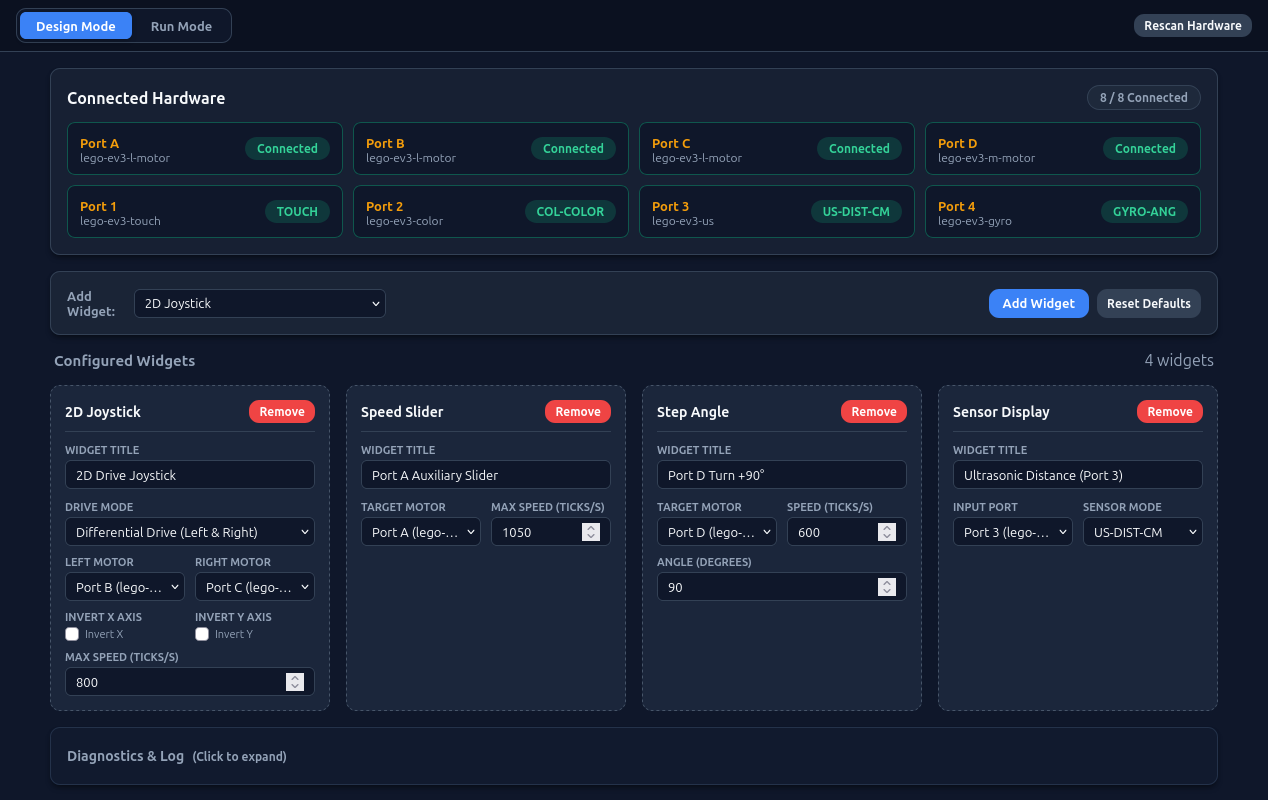
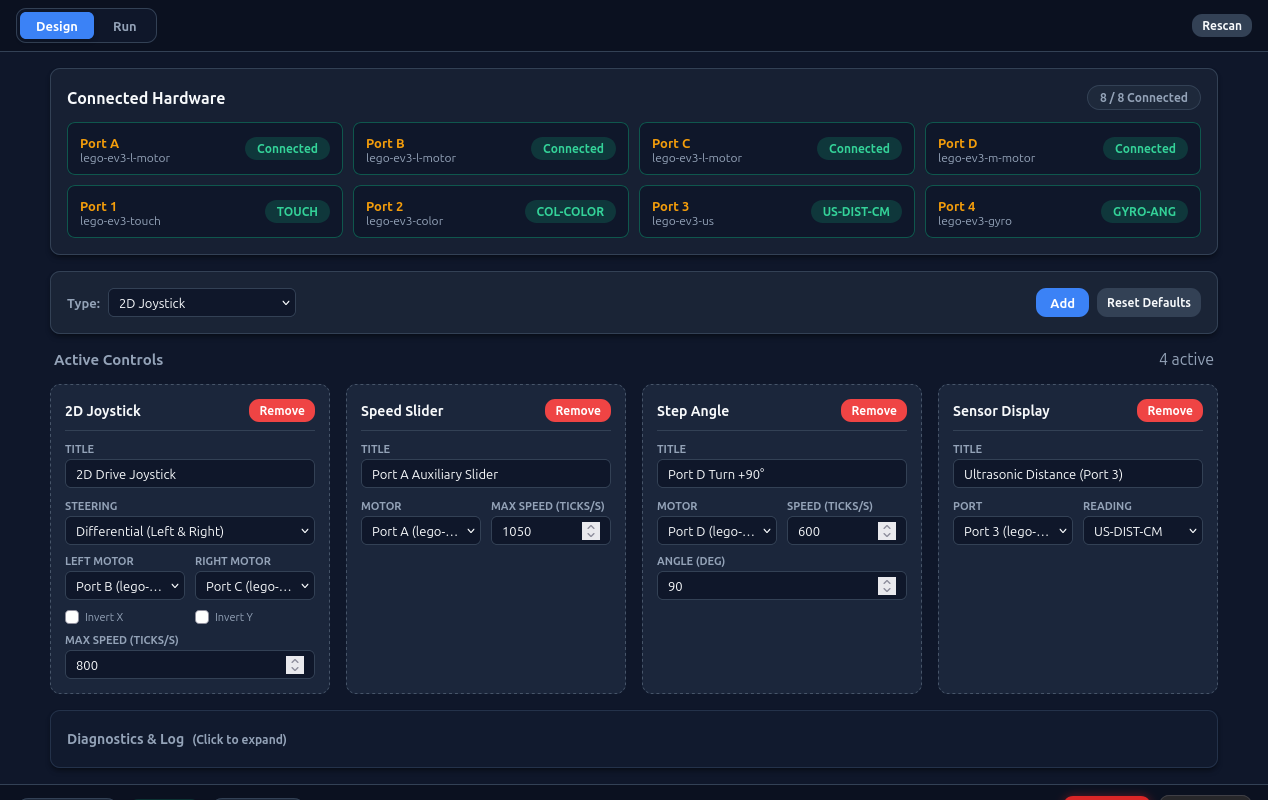
refactor(ui): remove word 'Mode' and eliminate redundant labels

diff --git a/web_assets/app.js b/web_assets/app.js
@@ -418,13 +418,13 @@ class EV3App {
     renderDesignWidgets() {
         if (!this.designWidgetList) return;
         if (this.widgetCountLabel) {
-            this.widgetCountLabel.textContent = `${this.widgets.length} widget${this.widgets.length === 1 ? '' : 's'}`;
+            this.widgetCountLabel.textContent = `${this.widgets.length} active`;
         }
 
         if (this.widgets.length === 0) {
             this.designWidgetList.innerHTML = `
                 <div class="card empty-notice" style="grid-column: 1 / -1;">
-                    <p>No widgets added yet. Select a widget type above and click <strong>Add Widget</strong>.</p>
+                    <p>No controls configured yet. Select a type above and click <strong>Add</strong>.</p>
                 </div>
             `;
             return;
@@ -455,10 +455,10 @@ class EV3App {
         if (w.type === "joystick") {
             fieldsHtml = `
                 <div class="widget-config-field full-width">
-                    <label>Drive Mode</label>
+                    <label>Steering</label>
                     <select class="field-drive-mode" data-id="${w.id}">
-                        <option value="differential" ${w.driveMode === 'differential' ? 'selected' : ''}>Differential Drive (Left & Right)</option>
-                        <option value="independent" ${w.driveMode === 'independent' ? 'selected' : ''}>Independent Axes (X & Y)</option>
+                        <option value="differential" ${w.driveMode === 'differential' ? 'selected' : ''}>Differential (Left & Right)</option>
+                        <option value="independent" ${w.driveMode === 'independent' ? 'selected' : ''}>Independent (X & Y)</option>
                     </select>
                 </div>
                 ${w.driveMode === 'differential' ? `
@@ -472,22 +472,20 @@ class EV3App {
                     </div>
                 ` : `
                     <div class="widget-config-field">
-                        <label>X Axis Motor</label>
+                        <label>X Motor</label>
                         <select class="port-select field-x-port" data-id="${w.id}" data-allow-none="true">${portOptions(w.xPort, true)}</select>
                     </div>
                     <div class="widget-config-field">
-                        <label>Y Axis Motor</label>
+                        <label>Y Motor</label>
                         <select class="port-select field-y-port" data-id="${w.id}" data-allow-none="true">${portOptions(w.yPort, true)}</select>
                     </div>
                 `}
                 <div class="widget-config-field">
-                    <label>Invert X Axis</label>
                     <label style="text-transform:none; font-weight:normal; display:flex; align-items:center; gap:6px;">
                         <input type="checkbox" class="field-invert-x" data-id="${w.id}" ${w.invertX ? 'checked' : ''}> Invert X
                     </label>
                 </div>
                 <div class="widget-config-field">
-                    <label>Invert Y Axis</label>
                     <label style="text-transform:none; font-weight:normal; display:flex; align-items:center; gap:6px;">
                         <input type="checkbox" class="field-invert-y" data-id="${w.id}" ${w.invertY ? 'checked' : ''}> Invert Y
                     </label>
@@ -500,7 +498,7 @@ class EV3App {
         } else if (w.type === "slider") {
             fieldsHtml = `
                 <div class="widget-config-field">
-                    <label>Target Motor</label>
+                    <label>Motor</label>
                     <select class="port-select field-port" data-id="${w.id}">${portOptions(w.port)}</select>
                 </div>
                 <div class="widget-config-field">
@@ -511,7 +509,7 @@ class EV3App {
         } else if (w.type === "momentary" || w.type === "toggle") {
             fieldsHtml = `
                 <div class="widget-config-field">
-                    <label>Target Motor</label>
+                    <label>Motor</label>
                     <select class="port-select field-port" data-id="${w.id}">${portOptions(w.port)}</select>
                 </div>
                 <div class="widget-config-field">
@@ -522,7 +520,7 @@ class EV3App {
         } else if (w.type === "timed") {
             fieldsHtml = `
                 <div class="widget-config-field">
-                    <label>Target Motor</label>
+                    <label>Motor</label>
                     <select class="port-select field-port" data-id="${w.id}">${portOptions(w.port)}</select>
                 </div>
                 <div class="widget-config-field">
@@ -530,14 +528,14 @@ class EV3App {
                     <input type="number" class="field-speed" data-id="${w.id}" min="-1560" max="1560" step="50" value="${w.speed}">
                 </div>
                 <div class="widget-config-field full-width">
-                    <label>Duration (Seconds)</label>
+                    <label>Duration (s)</label>
                     <input type="number" class="field-seconds" data-id="${w.id}" min="0.1" max="60" step="0.1" value="${w.seconds}">
                 </div>
             `;
         } else if (w.type === "step") {
             fieldsHtml = `
                 <div class="widget-config-field">
-                    <label>Target Motor</label>
+                    <label>Motor</label>
                     <select class="port-select field-port" data-id="${w.id}">${portOptions(w.port)}</select>
                 </div>
                 <div class="widget-config-field">
@@ -545,7 +543,7 @@ class EV3App {
                     <input type="number" class="field-speed" data-id="${w.id}" min="50" max="1560" step="50" value="${w.speed}">
                 </div>
                 <div class="widget-config-field full-width">
-                    <label>Angle (Degrees)</label>
+                    <label>Angle (deg)</label>
                     <input type="number" class="field-degrees" data-id="${w.id}" min="-3600" max="3600" step="45" value="${w.degrees}">
                 </div>
             `;
@@ -572,11 +570,11 @@ class EV3App {
 
             fieldsHtml = `
                 <div class="widget-config-field">
-                    <label>Input Port</label>
+                    <label>Port</label>
                     <select class="field-sensor-port" data-id="${w.id}">${sensorPortOptions(w.port || "1")}</select>
                 </div>
                 <div class="widget-config-field">
-                    <label>Sensor Mode</label>
+                    <label>Reading</label>
                     <select class="field-sensor-mode" data-id="${w.id}">${modeOpts}</select>
                 </div>
             `;
@@ -585,8 +583,8 @@ class EV3App {
         const typeLabels = {
             joystick: "2D Joystick",
             slider: "Speed Slider",
-            momentary: "Momentary Button",
-            toggle: "Toggle Button",
+            momentary: "Momentary",
+            toggle: "Toggle",
             timed: "Timed Move",
             step: "Step Angle",
             sensor: "Sensor Display"
@@ -604,7 +602,7 @@ class EV3App {
                 </div>
 
                 <div class="widget-config-field full-width">
-                    <label>Widget Title</label>
+                    <label>Title</label>
                     <input type="text" class="field-title" data-id="${w.id}" value="${w.title}">
                 </div>
 
@@ -651,7 +649,7 @@ class EV3App {
             });
         });
 
-        // Sensor mode change
+        // Sensor reading change
         document.querySelectorAll(".field-sensor-mode").forEach(sel => {
             sel.addEventListener("change", async (e) => {
                 const mode = e.target.value;
@@ -661,9 +659,9 @@ class EV3App {
                     this.saveWidgets();
                     try {
                         await this.apiPort(widget.port, { mode });
-                        this.log(`Sensor port ${widget.port} mode changed to ${mode}`, "info");
+                        this.log(`Sensor port ${widget.port} set to ${mode}`, "info");
                     } catch (err) {
-                        this.log(`Mode change failed: ${err.message}`, "error");
+                        this.log(`Sensor update failed: ${err.message}`, "error");
                     }
                 }
             });
@@ -781,7 +779,7 @@ class EV3App {
                         <span id="sensor-num-${w.id}">${val}</span> <span style="font-size: 1.1rem; color: #64748b;" id="sensor-unit-${w.id}">${units}</span>
                     </div>
                     <div style="font-size: 0.95rem; color: #475569; margin-top: 8px;">
-                        Mode: <strong id="sensor-mode-${w.id}">${mode}</strong>
+                        <strong id="sensor-mode-${w.id}">${mode}</strong>
                     </div>
                 </div>
             `;
@@ -802,7 +800,7 @@ class EV3App {
                 </div>
                 ${contentHtml}
                 <div class="run-card-status" id="run-status-${w.id}">
-                    Status: Ready
+                    Ready
                 </div>
             </div>
         `;
@@ -1233,7 +1231,7 @@ class EV3App {
                     if (modeElem) modeElem.textContent = s.connected ? s.mode : "--";
                     statusElem.textContent = s.connected
                         ? `Driver: ${s.driver_name}`
-                        : `Sensor disconnected`;
+                        : `Disconnected`;
                 }
             } else if (w.type === "joystick") {
                 if (w.driveMode === "differential") {

diff --git a/web_assets/design.html b/web_assets/design.html
@@ -3,18 +3,18 @@
 <head>
     <meta charset="UTF-8">
     <meta name="viewport" content="width=device-width, initial-scale=1.0, maximum-scale=1.0, user-scalable=no">
-    <title>EV3 Mindstorms - Design Mode</title>
+    <title>EV3 Mindstorms - Design</title>
     <link rel="stylesheet" href="style.css">
 </head>
 <body>
     <!-- Top Tab Navigation -->
     <nav class="top-nav">
         <div class="tab-group">
-            <a href="/design" id="btn-mode-design" class="tab-btn active">Design Mode</a>
-            <a href="/run" id="btn-mode-run" class="tab-btn">Run Mode</a>
+            <a href="/design" id="btn-mode-design" class="tab-btn active">Design</a>
+            <a href="/run" id="btn-mode-run" class="tab-btn">Run</a>
         </div>
         <button id="btn-rescan" class="btn btn-secondary btn-sm" title="Scan for connected hardware on all ports">
-            Rescan Hardware
+            Rescan
         </button>
     </nav>
 
@@ -36,20 +36,20 @@
             <div class="card builder-toolbar-card">
                 <div class="builder-toolbar">
                     <div class="builder-select-group">
-                        <label for="widget-type-select">Add Widget:</label>
+                        <label for="widget-type-select">Type:</label>
                         <select id="widget-type-select">
                             <option value="joystick">2D Joystick</option>
                             <option value="slider">Speed Slider</option>
-                            <option value="momentary">Momentary Button (Press to Run)</option>
-                            <option value="toggle">Toggle Button (Run / Stop)</option>
-                            <option value="timed">Timed Move Button</option>
-                            <option value="step">Step Angle Button</option>
+                            <option value="momentary">Momentary (Hold to Run)</option>
+                            <option value="toggle">Toggle (Run / Stop)</option>
+                            <option value="timed">Timed Move</option>
+                            <option value="step">Step Angle</option>
                             <option value="sensor">Sensor Display</option>
                         </select>
                     </div>
                     <div class="builder-buttons">
                         <button id="btn-add-widget" class="btn btn-primary">
-                            Add Widget
+                            Add
                         </button>
                         <button id="btn-reset-layout" class="btn btn-secondary btn-sm" title="Restore default starter widgets">
                             Reset Defaults
@@ -60,8 +60,8 @@
 
             <!-- Design Widget Card List -->
             <div class="widget-list-header">
-                <h3>Configured Widgets</h3>
-                <span class="text-muted" id="widget-count-label">0 widgets</span>
+                <h3>Active Controls</h3>
+                <span class="text-muted" id="widget-count-label">0 active</span>
             </div>
             <div id="design-widget-list" class="design-widget-list">
                 <!-- Dynamically populated widget config cards -->
@@ -98,10 +98,10 @@
                     <div class="log-container">
                         <div class="log-header">
                             <span>Command &amp; Event Log</span>
-                            <button id="btn-clear-log" class="btn btn-sm btn-secondary">Clear Log</button>
+                            <button id="btn-clear-log" class="btn btn-sm btn-secondary">Clear</button>
                         </div>
                         <div id="log-box" class="log-box">
-                            <div class="log-entry log-info">[System] Design Mode initialized.</div>
+                            <div class="log-entry log-info">[System] Design initialized.</div>
                         </div>
                     </div>
                 </div>

diff --git a/web_assets/index.html b/web_assets/index.html
@@ -3,15 +3,15 @@
 <head>
     <meta charset="UTF-8">
     <meta name="viewport" content="width=device-width, initial-scale=1.0, maximum-scale=1.0, user-scalable=no">
-    <title>EV3 Mindstorms - Run Mode</title>
+    <title>EV3 Mindstorms - Run</title>
     <link rel="stylesheet" href="style.css">
 </head>
 <body>
     <!-- Top Tab Navigation -->
     <nav class="top-nav">
         <div class="tab-group">
-            <a href="/design" id="btn-mode-design" class="tab-btn">Design Mode</a>
-            <a href="/run" id="btn-mode-run" class="tab-btn active">Run Mode</a>
+            <a href="/design" id="btn-mode-design" class="tab-btn">Design</a>
+            <a href="/run" id="btn-mode-run" class="tab-btn active">Run</a>
         </div>
     </nav>
 
@@ -19,15 +19,15 @@
     <main class="container">
         <section id="run-view" class="view-panel">
             <div id="run-empty-notice" class="card empty-notice" style="display: none;">
-                <h3>No Widgets Configured</h3>
-                <p>Configure controls and motor port assignments in Design Mode.</p>
+                <h3>No Controls Configured</h3>
+                <p>Create robot controls and assign motor ports.</p>
                 <a href="/design" class="btn btn-primary" style="margin-top: 12px; display: inline-block;">
-                    Open Design Mode
+                    Open Design
                 </a>
             </div>
 
             <div id="run-widget-list" class="run-widget-list">
-                <!-- Dynamically populated run-mode cards -->
+                <!-- Dynamically populated run cards -->
             </div>
         </section>
 
@@ -61,10 +61,10 @@
                     <div class="log-container">
                         <div class="log-header">
                             <span>Command &amp; Event Log</span>
-                            <button id="btn-clear-log" class="btn btn-sm btn-secondary">Clear Log</button>
+                            <button id="btn-clear-log" class="btn btn-sm btn-secondary">Clear</button>
                         </div>
                         <div id="log-box" class="log-box">
-                            <div class="log-entry log-info">[System] Run Mode initialized.</div>
+                            <div class="log-entry log-info">[System] Run initialized.</div>
                         </div>
                     </div>
                 </div>

diff --git a/web_assets/run.html b/web_assets/run.html
@@ -3,15 +3,15 @@
 <head>
     <meta charset="UTF-8">
     <meta name="viewport" content="width=device-width, initial-scale=1.0, maximum-scale=1.0, user-scalable=no">
-    <title>EV3 Mindstorms - Run Mode</title>
+    <title>EV3 Mindstorms - Run</title>
     <link rel="stylesheet" href="style.css">
 </head>
 <body>
     <!-- Top Tab Navigation -->
     <nav class="top-nav">
         <div class="tab-group">
-            <a href="/design" id="btn-mode-design" class="tab-btn">Design Mode</a>
-            <a href="/run" id="btn-mode-run" class="tab-btn active">Run Mode</a>
+            <a href="/design" id="btn-mode-design" class="tab-btn">Design</a>
+            <a href="/run" id="btn-mode-run" class="tab-btn active">Run</a>
         </div>
     </nav>
 
@@ -19,15 +19,15 @@
     <main class="container">
         <section id="run-view" class="view-panel">
             <div id="run-empty-notice" class="card empty-notice" style="display: none;">
-                <h3>No Widgets Configured</h3>
-                <p>Configure controls and motor port assignments in Design Mode.</p>
+                <h3>No Controls Configured</h3>
+                <p>Create robot controls and assign motor ports.</p>
                 <a href="/design" class="btn btn-primary" style="margin-top: 12px; display: inline-block;">
-                    Open Design Mode
+                    Open Design
                 </a>
             </div>
 
             <div id="run-widget-list" class="run-widget-list">
-                <!-- Dynamically populated run-mode cards -->
+                <!-- Dynamically populated run cards -->
             </div>
         </section>
 
@@ -61,10 +61,10 @@
                     <div class="log-container">
                         <div class="log-header">
                             <span>Command &amp; Event Log</span>
-                            <button id="btn-clear-log" class="btn btn-sm btn-secondary">Clear Log</button>
+                            <button id="btn-clear-log" class="btn btn-sm btn-secondary">Clear</button>
                         </div>
                         <div id="log-box" class="log-box">
-                            <div class="log-entry log-info">[System] Run Mode initialized.</div>
+                            <div class="log-entry log-info">[System] Run initialized.</div>
                         </div>
                     </div>
                 </div>
